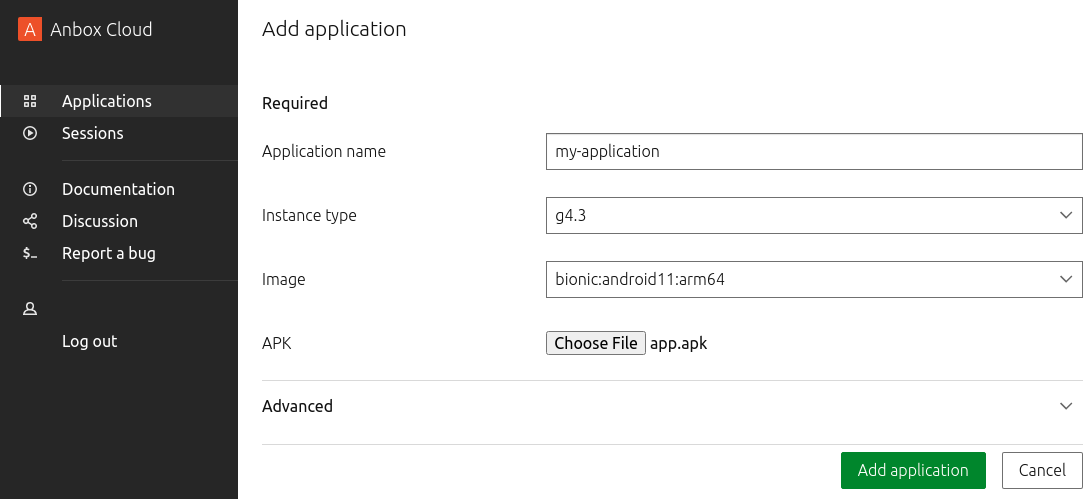
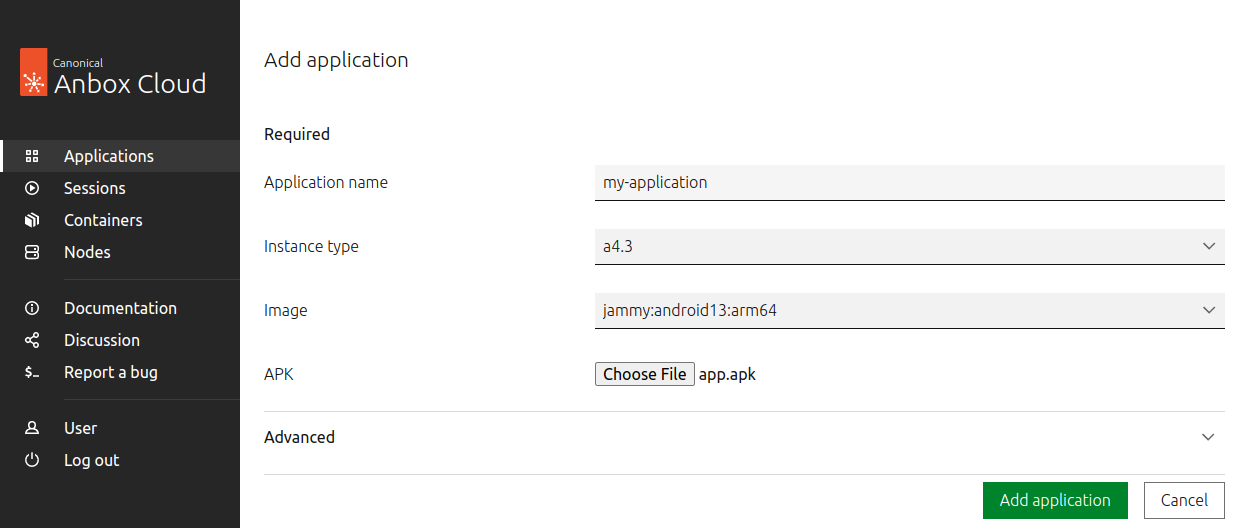
add container view to getting started tutorial
Also update the screenshots.

diff --git a/tut/getting-started-dashboard.md b/tut/getting-started-dashboard.md
@@ -24,26 +24,26 @@ Complete the following steps to create a virtual device:
 2. Click **Add Application**.
 3. Enter a name for the application, for example, `virtual-device-web`.
 4. Keep the preselected instance type.
-5. Select the Android image that you want to use, for example, `jammy:android12:arm64`.
+5. Select the Android image that you want to use, for example, `jammy:android13:arm64`.
 6. Do not upload an APK file.
 7. Click **Add Application**.
 
-   ![Add a virtual device](https://assets.ubuntu.com/v1/f220bcb2-gs_dashboard_add_application.png)
-8. Wait until the application status changes to `ready`.
+   ![Add a virtual device](../images/gs_dashboard_add_virtual_device.png)
+8. You are redirected to the application view. Wait until the application status changes to `ready`.
 
 ## 2. Launch and test the virtual device
 
 When the application has been initialised and its status changes to `ready`, complete the following steps to launch and test the virtual device:
 
-1. In the list of applications, click the play button (labelled **New session**) for the application to start a new session.
+1. In the list of applications, click the play button (labelled **New session**) in the **Actions** column for the application to start a new session.
 
-   ![Start a new session](https://assets.ubuntu.com/v1/04944ce7-gs_dashboard_new_session.png)
+   ![Start a new session](../images/gs_dashboard_new_session.png)
 2. Accept the default settings and click **New Session**.
 
-   ![Start with default settings](https://assets.ubuntu.com/v1/6087fbd9-gs_dashboard_start_session.png)
+   ![Start with default settings](../images/gs_dashboard_start_session.png)
 3. When the stream has loaded, you can interact with your virtual device.
 
-   ![Stream the virtual device](https://assets.ubuntu.com/v1/bfa831b4-gs_dashboard_streaming.png)
+   ![Stream the virtual device](../images/gs_dashboard_streaming.png)
 
 ## 3. Create an application from an APK
 
@@ -53,7 +53,7 @@ To create an application for a specific Android app, follow the steps in [1. Cre
 
 Choose an [instance type](https://discourse.ubuntu.com/t/instances-types-reference/17764) that is suitable for your application. If your instance is equipped with a GPU and your application requires the use of the GPU for rendering and video encoding, select an instance type with GPU support like `g4.3`. For other instance types, the container will use a GPU if available or software encoding otherwise.
 
-![Add an application](https://assets.ubuntu.com/v1/f220bcb2-gs_dashboard_add_application.png)
+![Add an application](../images/gs_dashboard_add_application.png)
 
 You can launch and test the application in the same way as you did for the virtual device.
 
@@ -64,11 +64,51 @@ You can have several versions of an application. See [How to update an applicati
 Complete the following steps to add a new version to your application:
 
 1. Open `https://<your-machine-address>/applications` in your browser.
-2. Click the **Edit application** button next to the application for which you want to add a new version.
+2. Click the **Edit application** button  in the **Actions** column next to the application for which you want to add a new version.
 
-   ![Update an application](https://assets.ubuntu.com/v1/891e16e9-gs_dashboard_edit_application.png)
+   ![Update an application](../images/gs_dashboard_edit_application.png)
 3. Upload a new APK, or do other changes to the configuration.
 4. Click **Update application**.
+
+## 5. Delete an application
+
+While following this tutorial, you created several applications. You can see them in the application view at `https://<your-machine-address>/applications`.
+
+To delete an application, click the **Delete application** button in the **Actions** column and confirm the deletion.
+
+![Delete an application](../images/gs_dashboard_delete_application.png)
+
+[note type="information" status="Tip"]
+To skip the confirmation window, hold **Shift** when clicking the **Delete application** button.
+[/note]
+
+## 6. Inspect containers
+
+Every time you start a session for an application, Anbox Cloud creates a container. The container keeps running even if you exit the stream, until you either stop the session by clicking **Stop session** or delete the container.
+
+You can see all containers in the container view at `https://<your-machine-address>/containers`.
+
+![Container view](../images/gs_dashboard_containers.png)
+
+Complete the following steps to inspect a container:
+
+1. Click on the ID of one of the running containers to see detailed information for the container.
+
+   ![Container information](../images/gs_dashboard_container_overview.png)
+1. Switch to the **Terminal** tab. You will see a terminal for the Linux container that runs the Android container.
+
+   You can run commands in the Linux container, or you can enter `anbox-shell` to access the nested Android container (enter `exit` to go back to the Linux container).
+
+   ![Use the container terminal](../images/gs_dashboard_container_terminal.png)
+1. Switch to the **Logs** tab. You will not see any logs, because log files are available only for containers that are in an error state, not for running containers.
+
+   To simulate a failure for the container, switch to the **Terminal** tab and enter the following command:
+
+        amsctl notify-status error --message="My error message"
+
+   Go back to the container overview, and when the container status changes to **error**, click on the container ID and switch to the **Logs** tab. You can now see the error logs for the container.
+
+   ![Container logs](../images/gs_dashboard_container_logs.png)
 
 ## Done!
 
